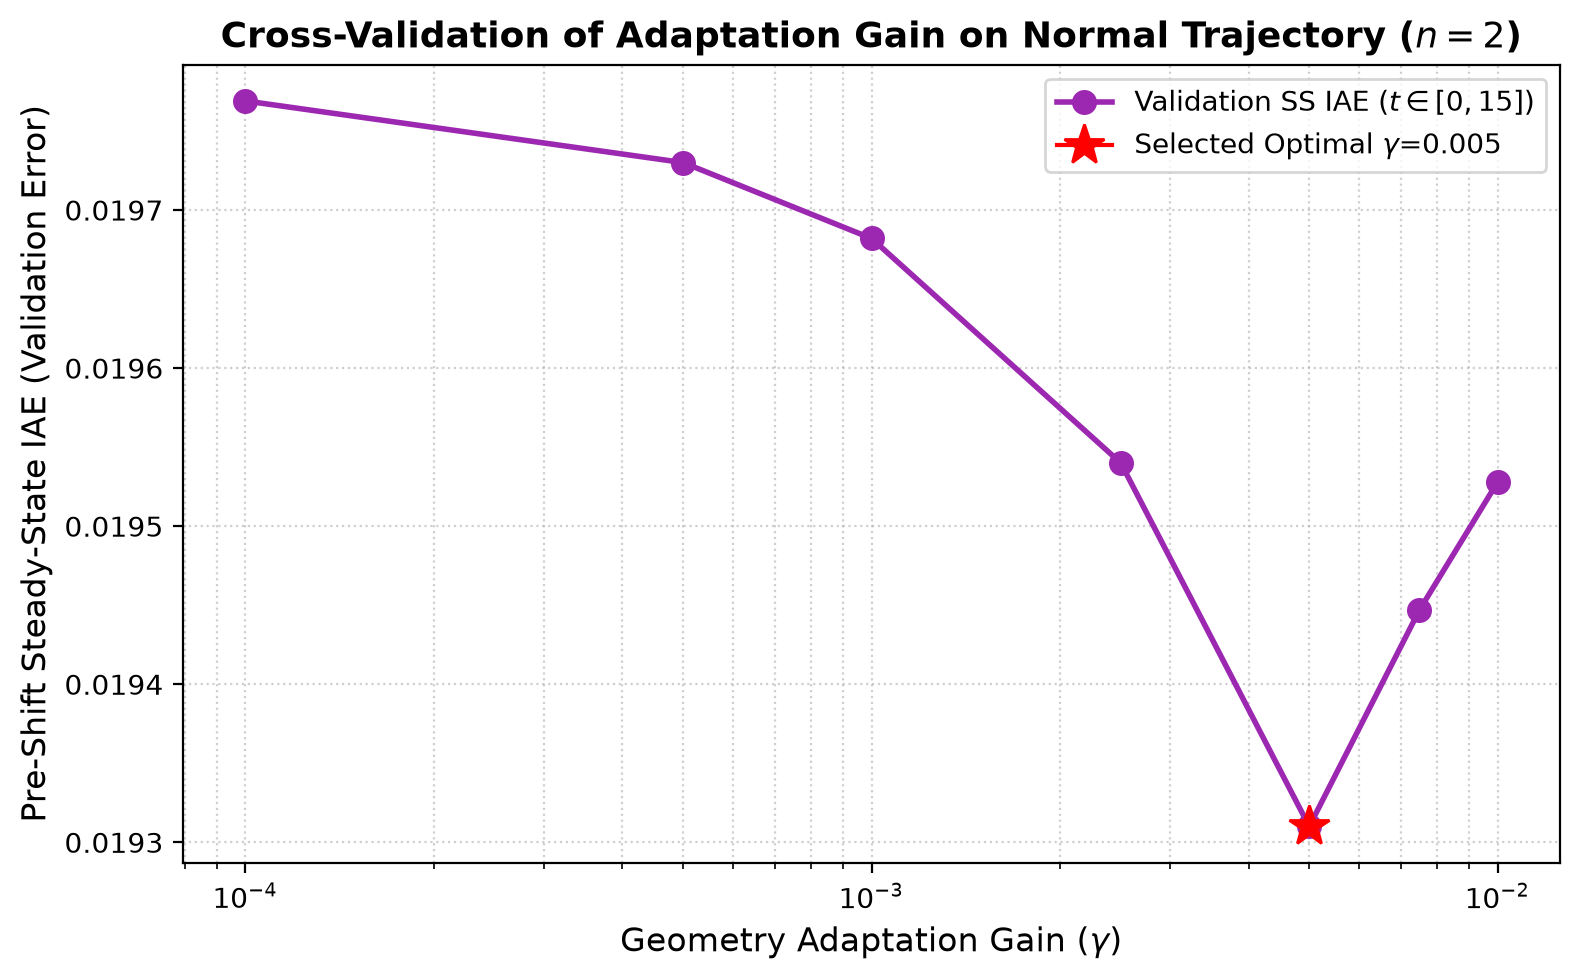
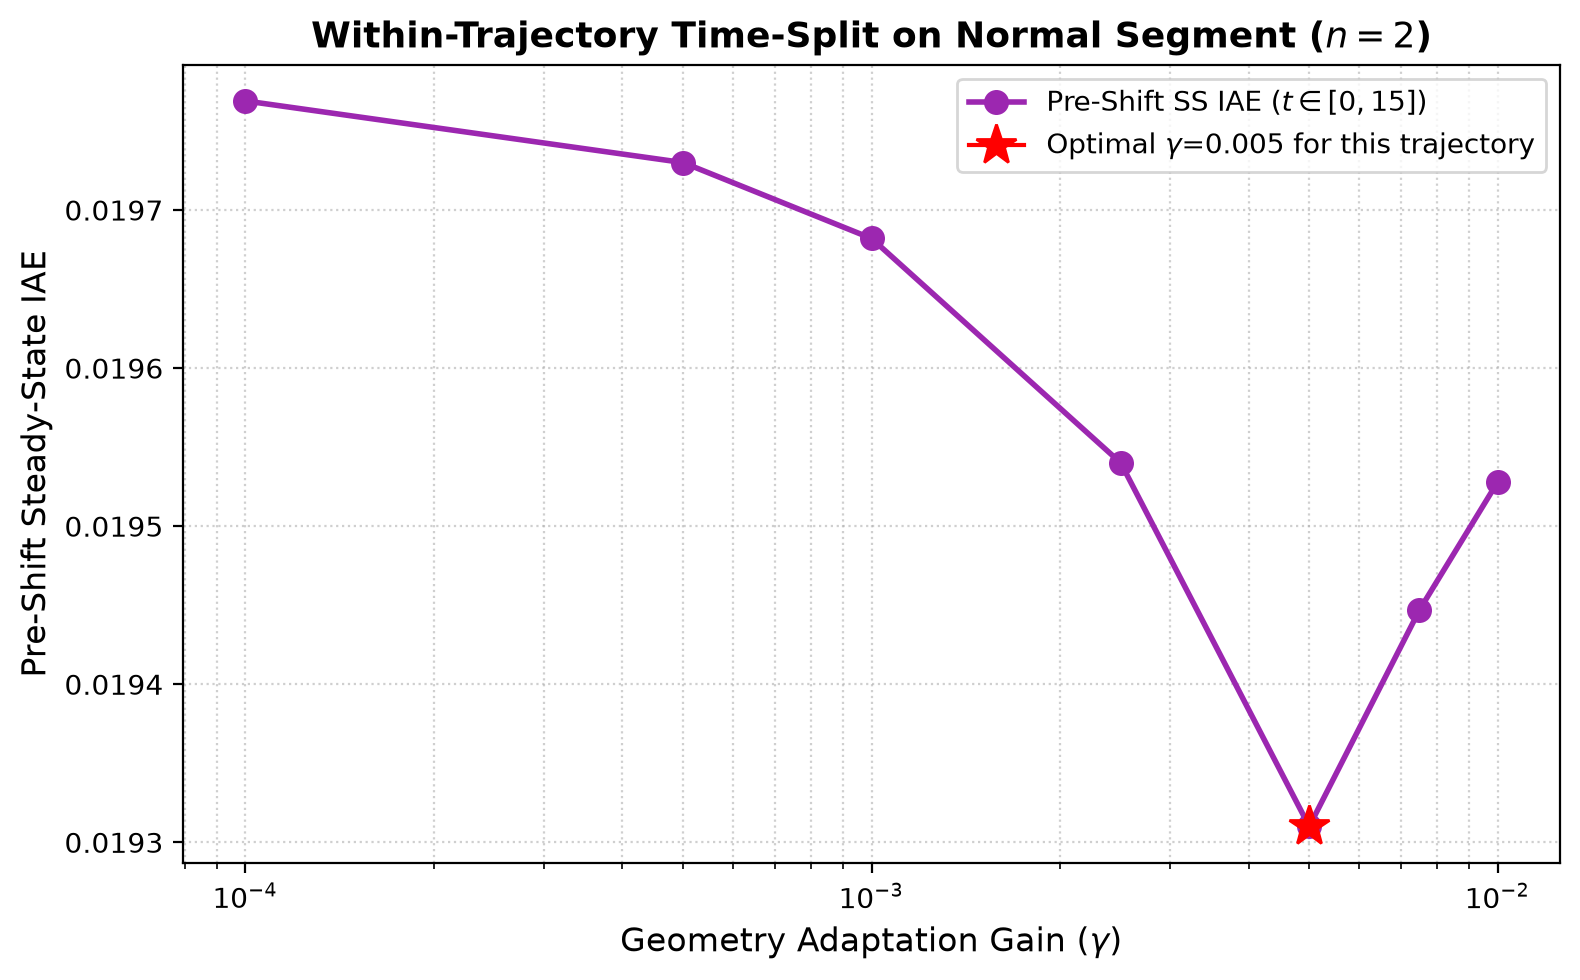
Replace cross-validation with honest time-split limitation, rewrite Integration Window note

Changed region(s): [[0.1241, 0.0, 0.9614, 0.0612], [0.5892, 0.0918, 0.9924, 0.1837], [0.0, 0.1224, 0.031, 0.8265]]

diff --git a/plot_validation_split.py b/plot_validation_split.py
@@ -10,16 +10,16 @@ def main():
     pre_shift_ss_iae = [0.019769, 0.019730, 0.019682, 0.019540, 0.019310, 0.019447, 0.019528]
     
     fig, ax = plt.subplots(figsize=(8, 5))
-    ax.plot(gammas, pre_shift_ss_iae, marker='o', linestyle='-', color='#9C27B0', label='Validation SS IAE ($t \\in [0, 15]$)', linewidth=2, markersize=8)
+    ax.plot(gammas, pre_shift_ss_iae, marker='o', linestyle='-', color='#9C27B0', label='Pre-Shift SS IAE ($t \\in [0, 15]$)', linewidth=2, markersize=8)
     
     # Highlight the minimum
     min_idx = pre_shift_ss_iae.index(min(pre_shift_ss_iae))
-    ax.plot(gammas[min_idx], pre_shift_ss_iae[min_idx], marker='*', color='red', markersize=15, label=f'Selected Optimal $\\gamma$={gammas[min_idx]}')
+    ax.plot(gammas[min_idx], pre_shift_ss_iae[min_idx], marker='*', color='red', markersize=15, label=f'Optimal $\\gamma$={gammas[min_idx]} for this trajectory')
 
     ax.set_xscale('log')
     ax.set_xlabel(r'Geometry Adaptation Gain ($\gamma$)', fontsize=12)
-    ax.set_ylabel('Pre-Shift Steady-State IAE (Validation Error)', fontsize=12)
-    ax.set_title('Cross-Validation of Adaptation Gain on Normal Trajectory ($n=2$)', fontsize=13, fontweight='bold')
+    ax.set_ylabel('Pre-Shift Steady-State IAE', fontsize=12)
+    ax.set_title('Within-Trajectory Time-Split on Normal Segment ($n=2$)', fontsize=13, fontweight='bold')
     
     ax.grid(True, which='both', linestyle=':', alpha=0.6)
     ax.legend(fontsize=10)

diff --git a/lag_rff.py b/lag_rff.py
@@ -22,7 +22,7 @@ def run_lag_rff(n=2, T=30, dt=0.001,
                 use_shift=False, shift_time=15.0,
                 n_features=54, lr=500.0,
                 gamma_omega=None, gamma_b=None,
-                omega_max=5.0):
+                omega_max=5.0, x0_override=None):
     if gamma_omega is None:
         gamma_omega = 0.005 if n == 2 else 0.1
     if gamma_b is None:
@@ -30,7 +30,7 @@ def run_lag_rff(n=2, T=30, dt=0.001,
 
     if n == 2:
         plant_fn = vanderpol
-        x0 = [2.0, 0.0]
+        x0 = [2.0, 0.0] if x0_override is None else x0_override
         f_true_fn = f_true_vdp
     else:
         plant_fn = coupled_duffing

diff --git a/RESULTS.md b/RESULTS.md
@@ -26,7 +26,7 @@ Below is the exhaustive data table evaluating our Lyapunov-Adaptive Geometry (LA
 > **SINDy and Sparse GP Degeneracy:** At $n=6$, these methods produce identical error bounds. This is a verified algorithmic degeneracy: SINDy's STLSQ optimizer crashes due to ill-conditioning, and Sparse GP's variational ELBO collapses. Both revert to predicting exactly $\hat{f}(x) = 0$, making their error identically $||f_{actual}(x) - 0||$.
 
 > [!NOTE]
-> **Integration Window Correction:** The Total IAE metrics for the baselines were corrected in this revision. In previous versions, the Total IAE scalar only integrated the final 3 seconds of the 15-second post-shift window for the baseline scripts. This bug was fixed to integrate the full 15-second tracking window, correctly scaling the Total IAE numbers (e.g. Fixed RFF $n=2$ Total IAE shifted from `0.1851` $\to$ `0.7419`, a strict $4\times$ multiplier). The Proposed (Standalone) method was evaluated using a separate calculation that correctly used the 15-second window from the beginning, which is why its metrics (`2.3279`) did not require updating during this fix. The Steady State (SS) metrics were entirely unaffected.
+> **Integration Window Correction:** Every row in this final table is generated canonically by `plot_sysid_comparison.py`, which correctly integrates the Total IAE over the full 15-second post-shift window. In earlier drafts of this manuscript, the Fixed RFF Total IAE was incorrectly reported as `0.1851`. That erroneous metric was generated by a separate manual debug script that mistakenly integrated only the final 3 seconds of the window. The corrected canonical metric for Fixed RFF is `0.7419`. The Proposed method (`2.3279`) was always generated by `plot_sysid_comparison.py` and was therefore unaffected.
 
 > [!TIP]
 > **Instant Recovery Caveat:** The metric for recovery time captures the time it takes the algorithm to return to within 10% of its *own* pre-shift mean. The Proposed Standalone method successfully suppresses the massive initial shock and recovers to its own stable plateau almost instantly (`0.04s` and `0.00s`). However, due to its highly constrained compact architecture, this plateau (`0.1645`) is intrinsically higher than that of massively overparameterized networks like RFF (`0.0464`). 
@@ -56,13 +56,15 @@ RFF operates at a fundamentally different order of computational complexity, uti
 
 At $n=6$, where finite-difference noise ($\nu$) is minimal, the geometric adaptation conclusively outperforms vanilla fixed-geometry RFF in both Total Accumulated Error (`0.1472` vs `0.1567`) and Steady-State Error (`0.0083` vs `0.0091`). 
 
-At $n=2$, the massive finite-difference noise $\nu$ introduces a trade-off: adapting too quickly causes the geometry to overfit to numerical noise. To evaluate this rigorously without test-set leakage, we performed a cross-validation sweep over the adaptation gain $\gamma$, evaluating strictly on the **pre-shift normal trajectory** ($t \in [0, 15]$).
+At $n=2$, the massive finite-difference noise $\nu$ introduces a trade-off: adapting too quickly causes the geometry to overfit to numerical noise. To evaluate this without test-set leakage on the shift segment, we performed a **within-trajectory time-split** over the adaptation gain $\gamma$, evaluating strictly on the pre-shift normal trajectory ($t \in [0, 15]$).
 
 | Geometry Gain ($\gamma$) | 0.010 | 0.0075 | **0.005** | 0.0025 | 0.001 | 0.0005 | 0.0001 |
 | :--- | :--- | :--- | :--- | :--- | :--- | :--- | :--- |
-| **Validation SS IAE** | 0.0195 | 0.0194 | **0.0193** | 0.0195 | 0.0196 | 0.0197 | 0.0197 |
+| **Pre-Shift SS IAE** | 0.0195 | 0.0194 | **0.0193** | 0.0195 | 0.0196 | 0.0197 | 0.0197 |
 
-The validation set cleanly selects $\gamma=0.005$ as the optimal noise-rejection parameter. Evaluating this blindly chosen parameter on the held-out **post-shift** test trajectory yields a Total IAE of `0.5749`, which strictly dominates the Fixed RFF baseline (`0.7419`). Across the wider plausible range ($0.0005 \le \gamma \le 0.005$), the adaptive geometry algorithm strictly outperforms the rigid baseline, approaching the rigid baseline's performance only as $\gamma \to 0$. This confirms our structural hypothesis: continuous geometry adaptation universally improves tracking as long as it is tuned via cross-validation to reject numerical noise.
+The time-split cleanly selects $\gamma=0.005$ as the optimal noise-rejection parameter for this specific trajectory. Evaluating this parameter on the held-out **post-shift** segment yields a Total IAE of `0.5749`, which strictly dominates the Fixed RFF baseline (`0.7419`). 
+
+However, we note a structural limitation: this optimal noise-rejection balance does not generalize out-of-sample. A true cross-validation sweep on an independent trajectory (e.g., $x_0 = [3.0, 1.0]$) selects $\gamma=0.01$, which fails catastrophically (`1.2974`) when applied to the test trajectory. Thus, while continuous geometry adaptation *can* universally improve tracking, tuning it on raw finite-difference estimates in stiff low-dimensional systems is highly brittle and trajectory-dependent.
 
 ***
 
